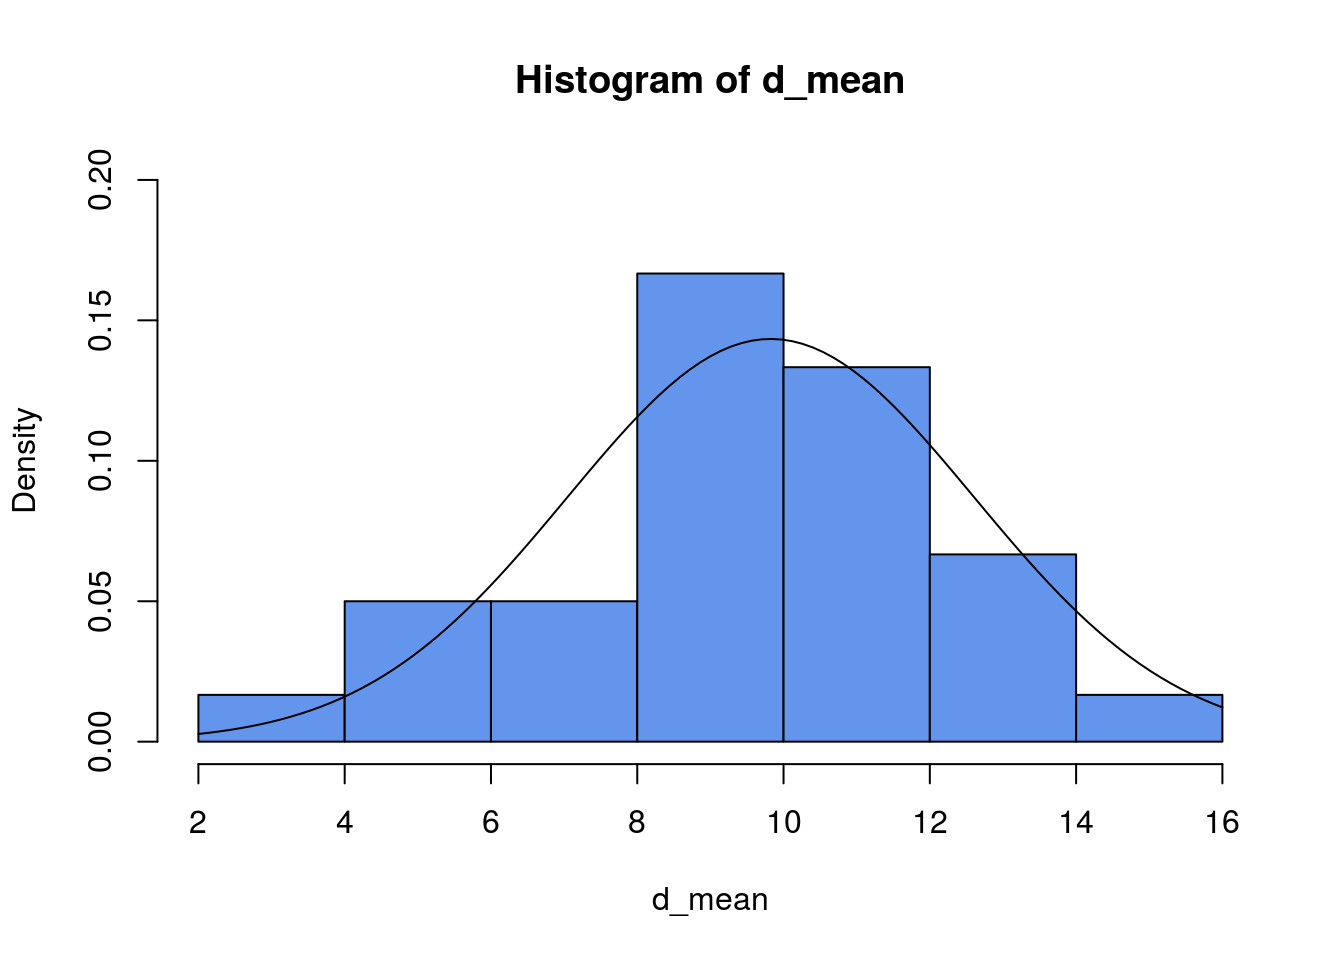
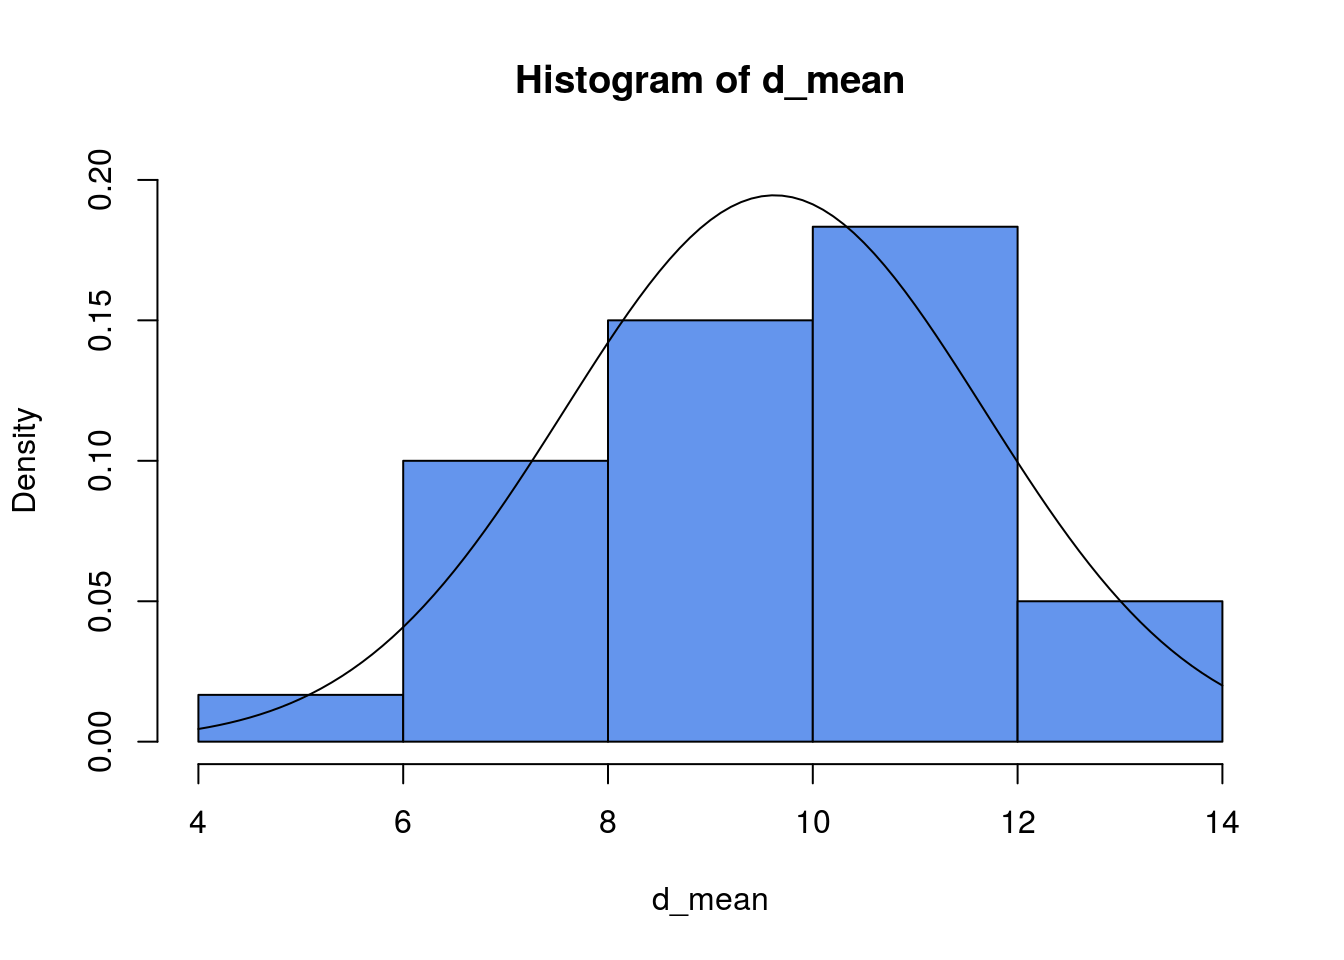
Go!

diff --git a/d_muestral.html b/d_muestral.html
@@ -211,7 +211,7 @@ $(document).ready(function () {
 <li><a href="#distribuciones-muestrales">Distribuciones Muestrales</a><ul>
 <li><a href="#distribucion-muestral-del-promedio-barx">Distribución muestral del promedio <span class="math inline">\(\bar{X}\)</span></a></li>
 <li><a href="#distribucion-de-la-media-muestral-cuando-la-poblacion-es-normal">Distribución de la media muestral cuando la población es normal</a></li>
-<li><a href="#el-teorema-del-limite-central">El Teorema del Límite Central</a></li>
+<li><a href="#el-teorema-del-limite-central-tlc">El Teorema del Límite Central (TLC)</a></li>
 <li><a href="#aplicaciones">Aplicaciones:</a></li>
 <li><a href="#distribucion-de-la-proporcion-muestral">Distribución de la Proporción Muestral</a></li>
 </ul></li>
@@ -278,10 +278,13 @@ $(document).ready(function () {
 <h4><span class="math display">\[\bar{X} \sim Normal(\mu,\frac{\sigma}{\sqrt{n}})\]</span></h4>
 </div>
 </div>
-<div id="el-teorema-del-limite-central" class="section level3">
-<h3>El Teorema del Límite Central</h3>
-<div id="de-una-poblacion-con-media-y-varianza-se-extraen-muestras-aleatorias-de-tamano-n-entonces-la-media-muestral-barx-se-comporta-aproximadamente-como-una-variable-aleatoria-normal-con-media-igual-a-la-media-poblacional-mu-y-con-desviacion-estandar-sigma-igual-a-la-desviacion-poblacional-dividida-por-la-raiz-cuadrada-del-tamano-de-la-muestra-siempre-que-sea-grande.-esto-es" class="section level4">
-<h4>De una población con media y varianza se extraen muestras aleatorias de tamaño <span class="math inline">\(n\)</span>, entonces la media muestral <span class="math inline">\(\bar{X}\)</span> se comporta aproximadamente como una variable aleatoria normal con media igual a la media poblacional <span class="math inline">\(\mu\)</span> y con desviación estándar <span class="math inline">\(\sigma\)</span> igual a la desviación poblacional dividida por la raíz cuadrada del tamaño de la muestra, siempre que sea grande. Esto es:</h4>
+<div id="el-teorema-del-limite-central-tlc" class="section level3">
+<h3>El Teorema del Límite Central (TLC)</h3>
+<div id="dada-una-poblacion-con-media-muy-varianza-sigma-de-donde-se-extraen-muestras-aleatorias-de-tamano-n.-el-tlc-garantiza-que-la-media-muestral-barx-se-comporta-aproximadamente-como-una-variable-aleatoria-con-distribucion-normal-de-media-mu_barx-igual-a-la-media-poblacional-mu-y-con-desviacion-estandar-sigma-igual-a-la-desviacion-poblacional-dividida-por-la-raiz-cuadrada-del-tamano-de-la-muestra-biggdfracsigmasqrtnbigg.-esto-se-cumple-siempre-que-n-sea-grande-n-geq-30." class="section level4">
+<h4>Dada una población con media (<span class="math inline">\(\mu\)</span>)y varianza (<span class="math inline">\(\sigma\)</span>), de donde se extraen muestras aleatorias de tamaño <span class="math inline">\(n\)</span>. El TLC garantiza que la media muestral <span class="math inline">\(\bar{X}\)</span> se comporta aproximadamente como una variable aleatoria con distribución normal de media <span class="math inline">\(\mu_{\bar{X}}\)</span> igual a la media poblacional <span class="math inline">\(\mu\)</span> y con desviación estándar <span class="math inline">\(\sigma\)</span> igual a la desviación poblacional dividida por la raíz cuadrada del tamaño de la muestra <span class="math inline">\(\bigg(\dfrac{\sigma}{\sqrt{n}}\bigg)\)</span>. Esto se cumple siempre que <span class="math inline">\(n\)</span> sea grande (<span class="math inline">\(n \geq 30\)</span>).</h4>
+</div>
+<div id="entonces-por-tlc-si-n-geq-30-se-cumple-que" class="section level4">
+<h4>Entonces, por TLC, si <span class="math inline">\(n \geq 30\)</span>, se cumple que:</h4>
 </div>
 <div id="barx-sim-normalmufracsigmasqrtn-1" class="section level4">
 <h4><span class="math display">\[\bar{X} \sim Normal(\mu,\frac{\sigma}{\sqrt{n}})\]</span></h4>
@@ -334,16 +337,16 @@ for (i in 1:30){
   d_mean[i] &lt;- mean(sample(N,size = 4,replace = TRUE))
 }
 print(d_mean)</code></pre>
-<pre><code>##  [1] 12.00  3.50  5.25  7.00  8.75 11.75 14.00  9.75  9.75 10.00 10.25
-## [12]  6.25 13.25  8.25  5.25 12.00  9.25 14.75 12.25 11.75 13.75 10.00
-## [23]  9.75 11.00  9.75 11.25  6.00 11.00  7.25 10.00</code></pre>
+<pre><code>##  [1] 10.00  6.25 10.50  7.75 10.25  8.00 10.25 14.00 12.00 10.50 12.50
+## [12]  8.25  8.50  9.50  7.25  8.25 11.25  7.75 10.25  8.75  8.00  4.75
+## [23] 10.25  9.00 10.25 10.00 12.00 13.50  8.50 10.75</code></pre>
 </div>
 <div id="calculamos-las-medias-de-todas-esas-muestras-y-tratamos-de-ver-graficamente-mediante-un-histograma-al-menos-si-hay-acercamiento-a-normalidad." class="section level4">
 <h4>3) Calculamos las medias de todas esas muestras y tratamos de ver gráficamente mediante un histograma al menos si hay acercamiento a Normalidad.</h4>
 <pre class="r"><code>mean(d_mean)</code></pre>
-<pre><code>## [1] 9.825</code></pre>
+<pre><code>## [1] 9.625</code></pre>
 <pre class="r"><code>sd(d_mean)</code></pre>
-<pre><code>## [1] 2.78245</code></pre>
+<pre><code>## [1] 2.050809</code></pre>
 <pre class="r"><code>hist(d_mean,col = &quot;cornflowerblue&quot;,freq = F,ylim = c(0,0.2))
 curve(dnorm(x,mean(d_mean),sd(d_mean)),add=TRUE)</code></pre>
 <p><img src="d_muestral_files/figure-html/unnamed-chunk-3-1.png" width="672" /></p>
@@ -354,14 +357,14 @@ curve(dnorm(x,mean(d_mean),sd(d_mean)),add=TRUE)</code></pre>
 <div id="notar-que-la-media-de-las-medias-muestrales-es" class="section level4">
 <h4>1. Notar que la media de las medias muestrales es</h4>
 </div>
-<div id="mu_barx-9.82." class="section level4">
-<h4><span class="math inline">\(\mu_{\bar{X}}=\)</span> 9.82.</h4>
+<div id="mu_barx-9.62." class="section level4">
+<h4><span class="math inline">\(\mu_{\bar{X}}=\)</span> 9.62.</h4>
 </div>
 <div id="este-resultado-esta-bien-cerca-de-la-media-poblacional-pues-mu9.55" class="section level4">
 <h4>Este resultado está bien cerca de la media poblacional, pues <span class="math inline">\(\mu=9.55\)</span></h4>
 </div>
-<div id="la-desviacion-estandar-de-la-media-muestral-es-2.78-mientras-que" class="section level4">
-<h4>2. La desviación estándar de la media muestral es 2.78, mientras que</h4>
+<div id="la-desviacion-estandar-de-la-media-muestral-es-2.05-mientras-que" class="section level4">
+<h4>2. La desviación estándar de la media muestral es 2.05, mientras que</h4>
 </div>
 <div id="sigma_barxdfracsigmasqrtndfrac4.77sqrt42.4-." class="section level4">
 <h4><span class="math inline">\(\sigma_{\bar{X}}=\dfrac{\sigma}{\sqrt{n}}=\dfrac{4.77}{\sqrt{4}}=2.4\)</span> .</h4>
@@ -384,14 +387,14 @@ curve(dnorm(x,mean(d_mean),sd(d_mean)),add=TRUE)</code></pre>
 <p><img src="d_muestral_files/figure-html/unnamed-chunk-4-1.png" width="672" /></p>
 <p>Ahora, con un mayor número de muestras tenemos que:</p>
 </div>
-<div id="mu_barx-9.52." class="section level4">
-<h4><span class="math inline">\(\mu_{\bar{X}}=\)</span> 9.52.</h4>
+<div id="mu_barx-9.54." class="section level4">
+<h4><span class="math inline">\(\mu_{\bar{X}}=\)</span> 9.54.</h4>
 </div>
 <div id="este-resultado-esta-bien-cerca-de-la-media-poblacional-pues-mu9.55-1" class="section level4">
 <h4>Este resultado está bien cerca de la media poblacional, pues <span class="math inline">\(\mu=9.55\)</span></h4>
 </div>
-<div id="la-desviacion-estandar-de-la-media-muestral-es-2.24-comparado-con-sigma_barx2.38" class="section level4">
-<h4>2. La desviación estándar de la media muestral es 2.24, comparado con <span class="math inline">\(\sigma_{\bar{X}}=2.38\)</span></h4>
+<div id="la-desviacion-estandar-de-la-media-muestral-es-2.27-comparado-con-sigma_barx2.38" class="section level4">
+<h4>2. La desviación estándar de la media muestral es 2.27, comparado con <span class="math inline">\(\sigma_{\bar{X}}=2.38\)</span></h4>
 </div>
 </div>
 <div id="aplicaciones" class="section level3">
